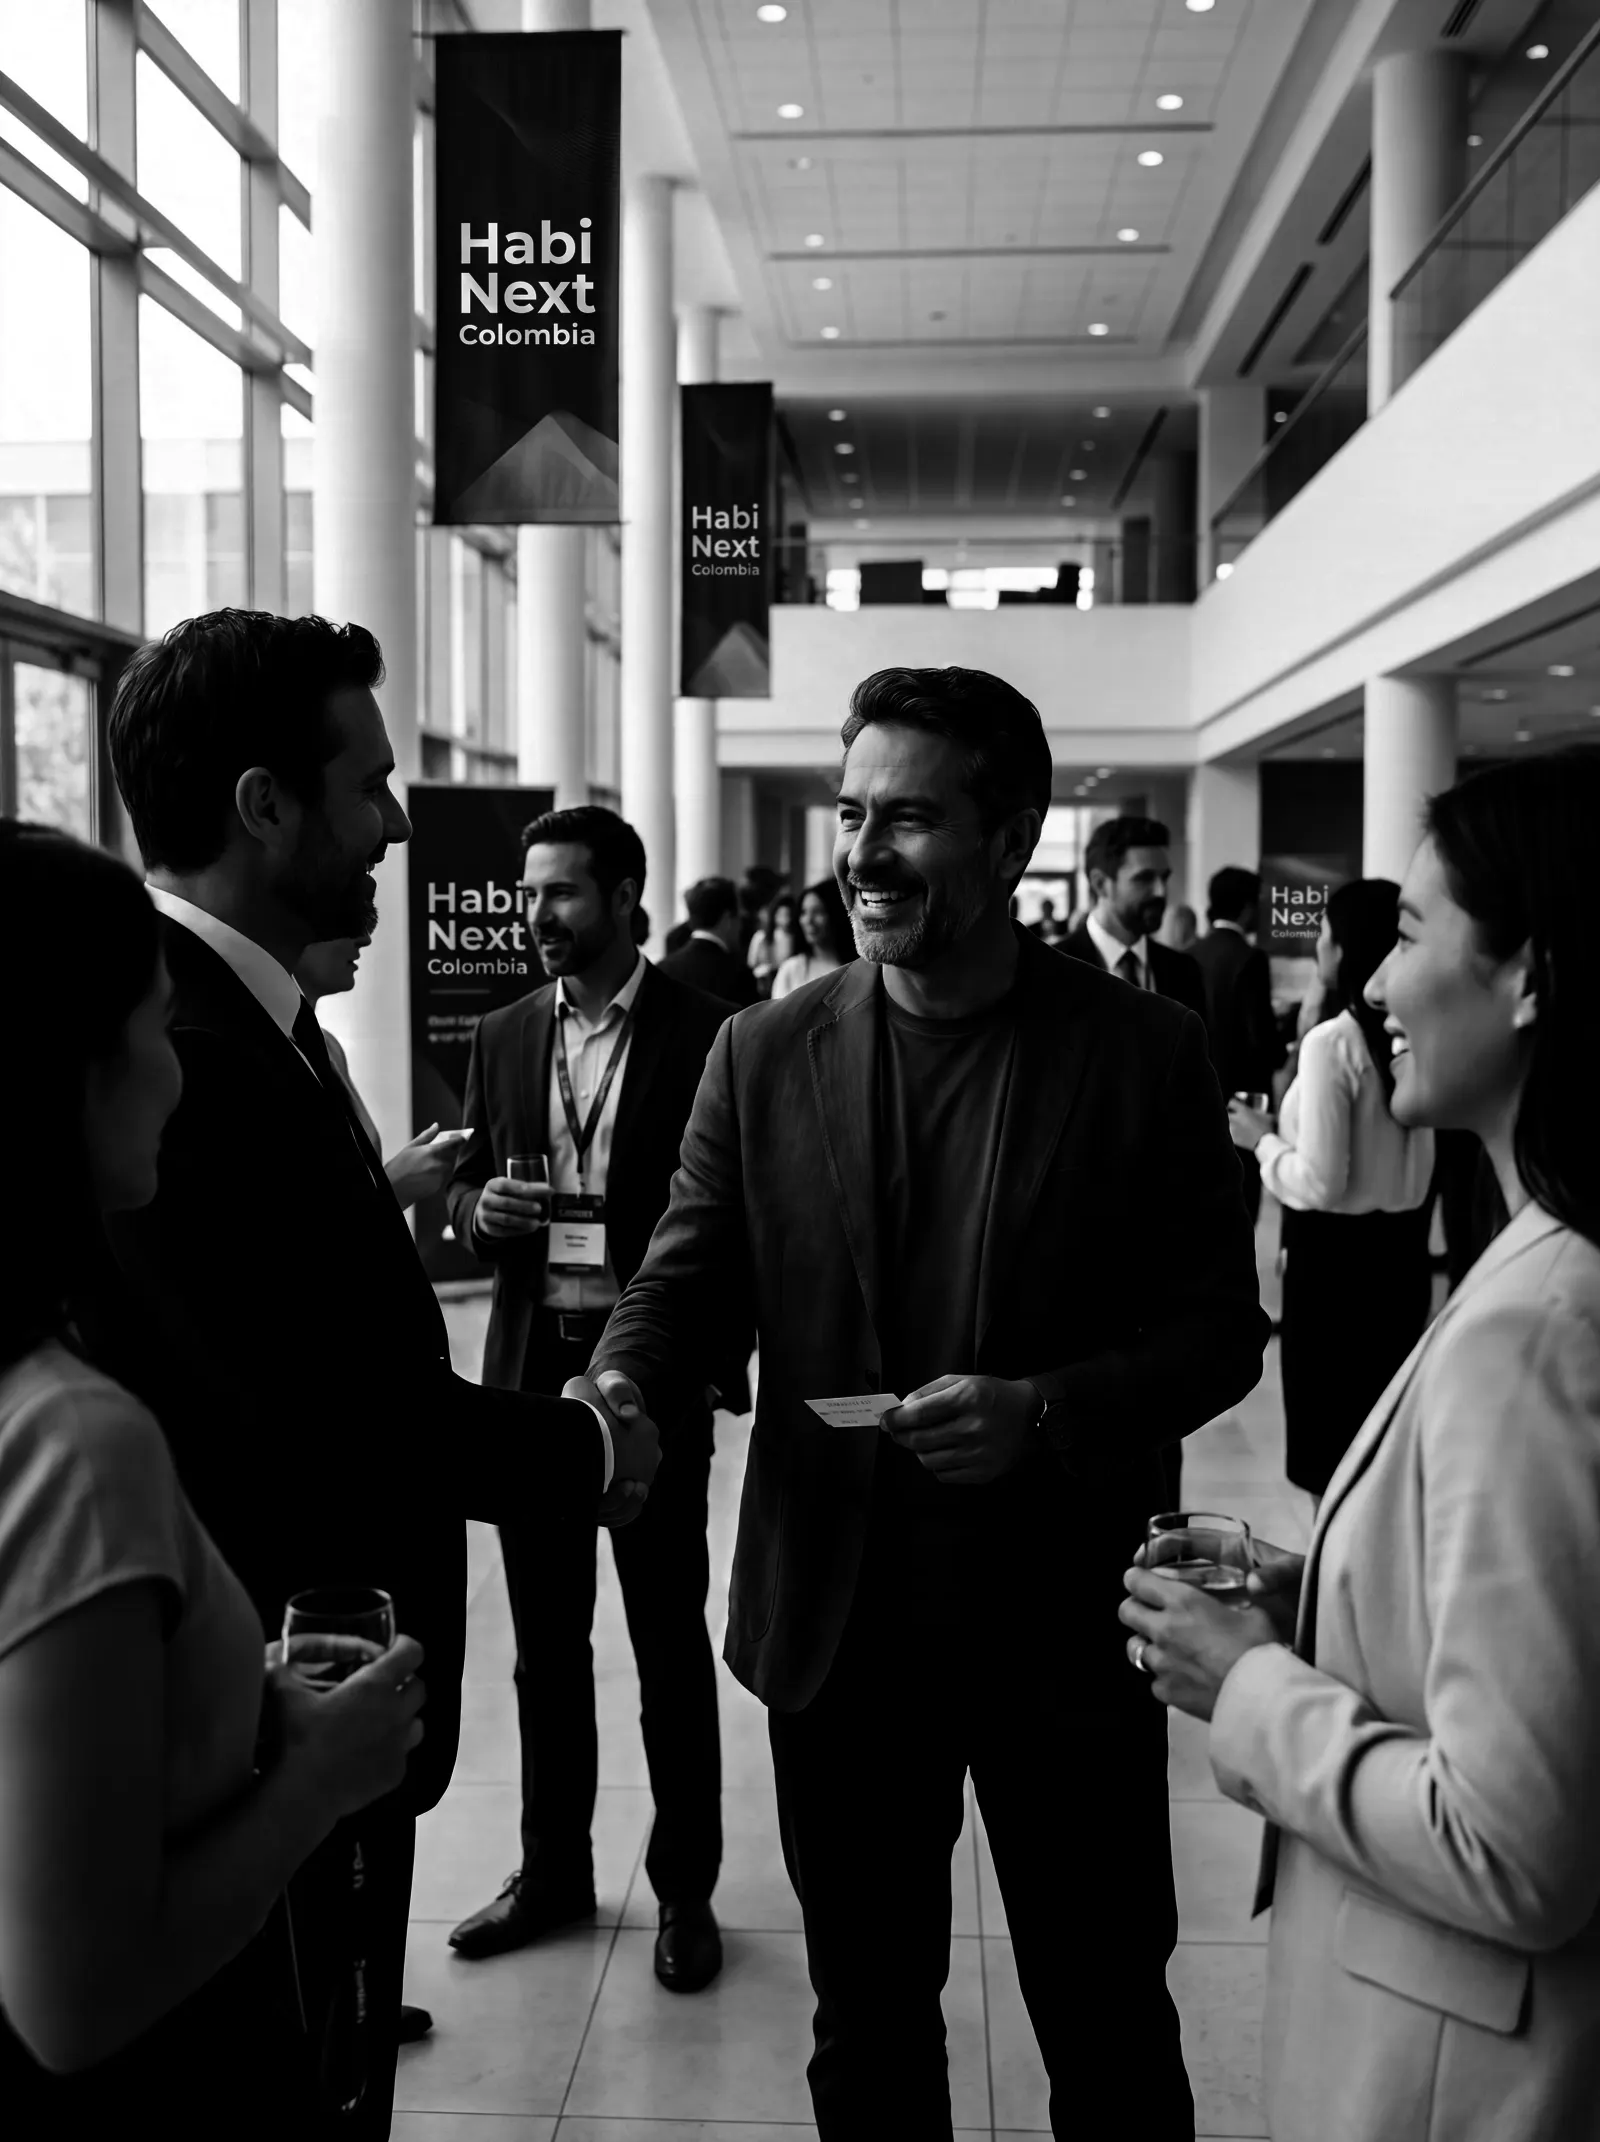
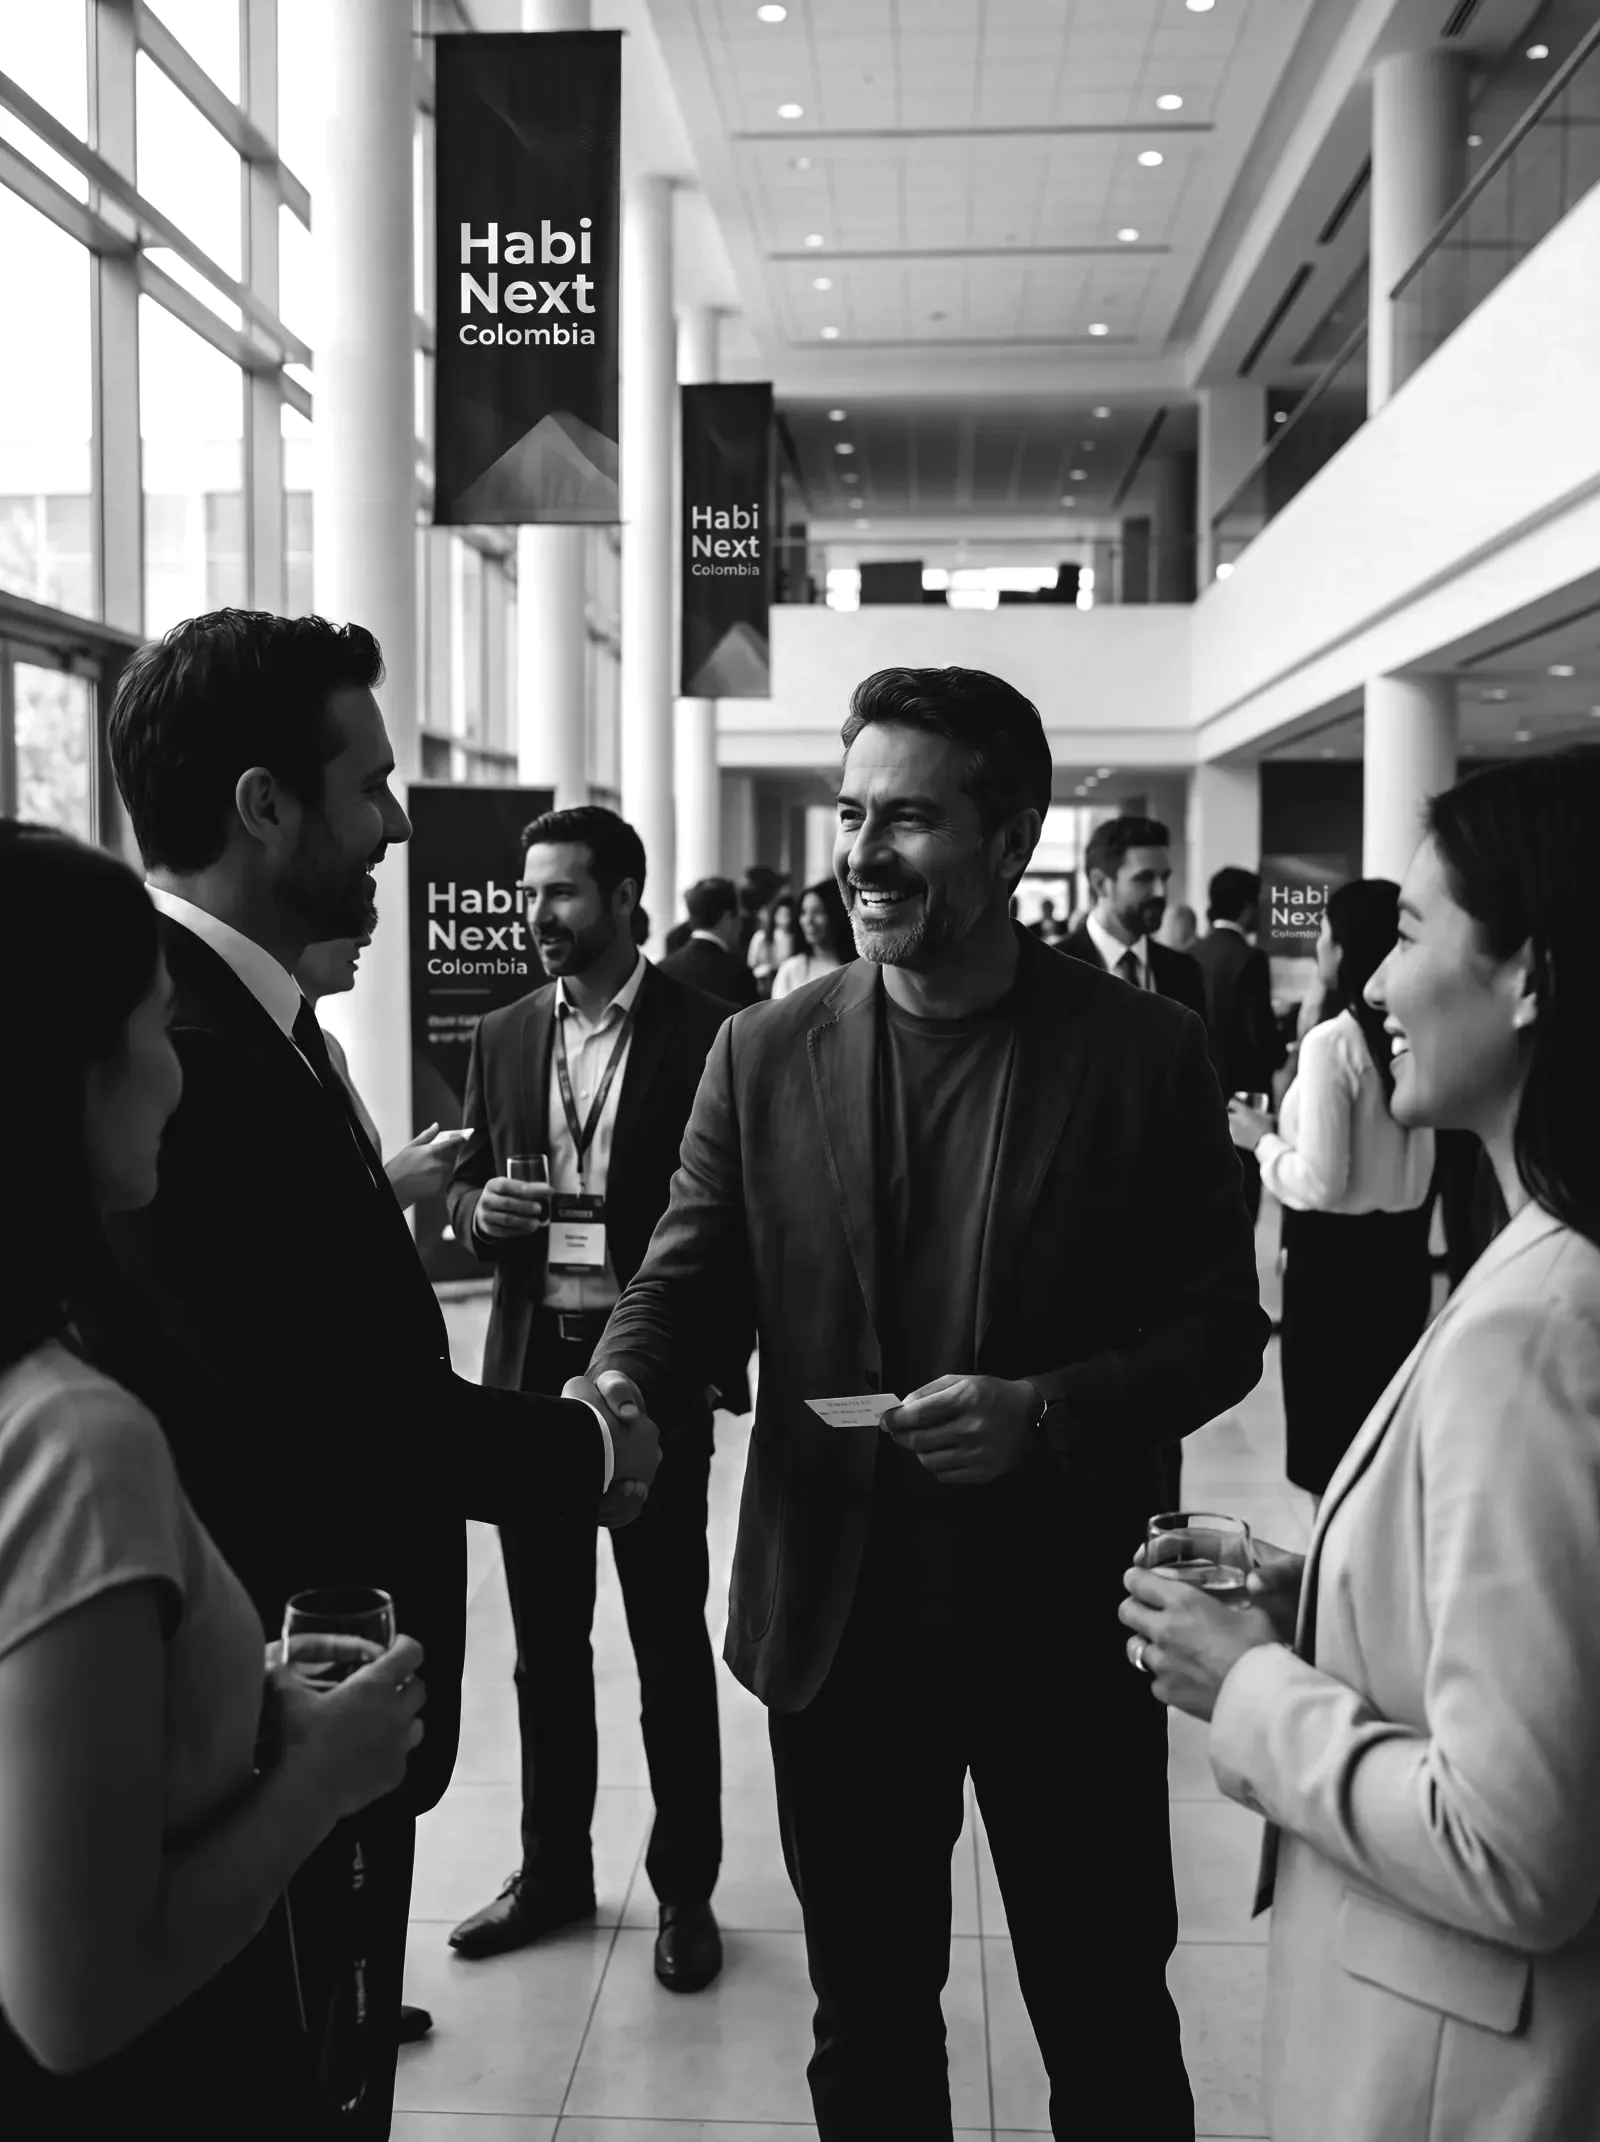
Levanta las cuatro fotos de En un solo día
Las cuatro son blanco y negro en clave baja y sobre la superficie de tinta
se leían como huecos: en Crea y Automatiza el saco del sujeto se fundía con
el fondo. Se les sube el gamma (1,34 y 1,36 a las dos oscuras, 1,24 y 1,26
a las dos de grupo, que ya traían ventanas claras) y el degradado del panel
de escritorio se acota al tercio de abajo, que es lo único que necesita
para que la etiqueta del número se lea.

El gamma no toca el punto de blanco, así que las ventanas y las pantallas
no se queman. Los pesos quedan casi iguales (83-139 KB).

diff --git a/src/components/sections/Aprendizajes.tsx b/src/components/sections/Aprendizajes.tsx
@@ -231,7 +231,10 @@ export default function Aprendizajes() {
                     className="panel-img object-cover"
                   />
                 ))}
-                <div className="absolute inset-0 bg-gradient-to-t from-ink via-transparent to-transparent" />
+                {/* Solo existe para que la etiqueta del número se lea sobre la foto,
+                    así que se queda en el tercio de abajo: antes llegaba hasta
+                    la mitad y apagaba la figura. */}
+                <div className="absolute inset-0 bg-gradient-to-t from-ink via-transparent via-34% to-transparent" />
 
                 <div className="absolute inset-x-0 bottom-0 overflow-hidden p-8">
                   {pillars.map((p) => (
